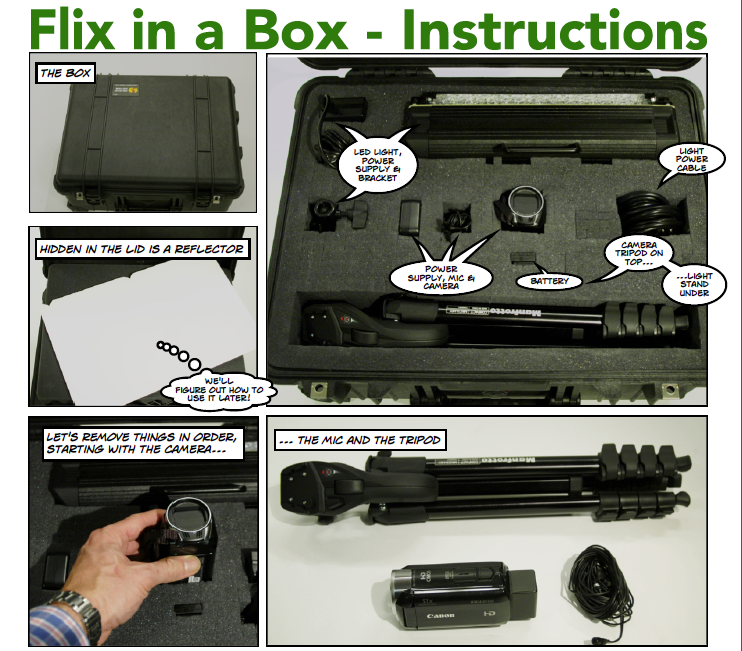
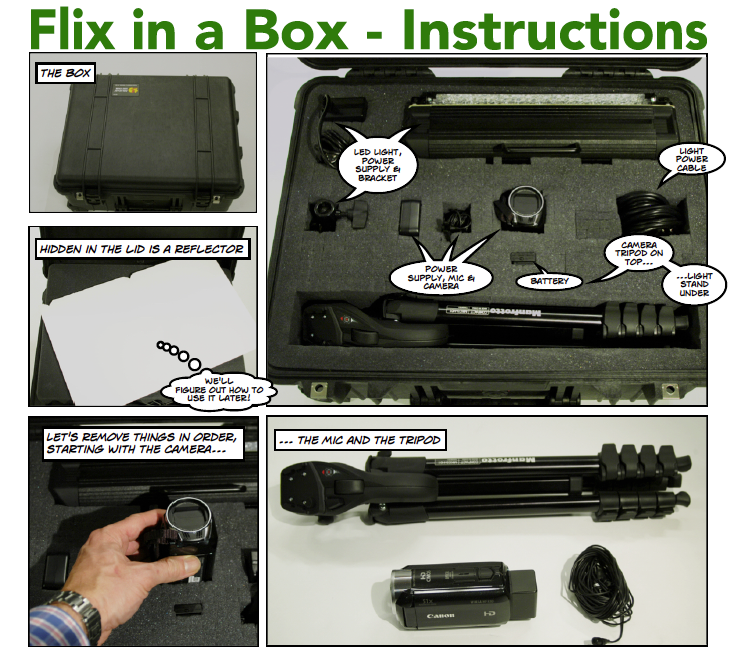
new image

diff --git a/index.html b/index.html
@@ -23,7 +23,7 @@
 <p><iframe align="top" src="http://astore.amazon.com/flinabo-20" width="610" height="942" frameborder="0" scrolling="no"></iframe><iframe align="top" src="http://astore.amazon.com/flixinaphone-20" width="610" height="690" frameborder="0" scrolling="no"></iframe></p>
 <h2>The Instructions</h2>
 <p>Cartoon style short tutorials that you can print out and use as a reference</p>
-<img src="images/toon_sample.png" width="742" height="651" alt="Cartoon instruction example"/>
+<img src="images/toon_sample.jpg" width="740" height="651" alt="Cartoon instruction example"/>
 <h2>Putting it all together</h2>
 <p>You have choices for putting it all together: edit on your own smartphone (if it's a simple edit), edit on your laptop using iMovie or any other (free) video editing software or work with an editor who can do it for you</p>
 <p>&copy;2015 Mark Halliday - All rights reserved.</p>
